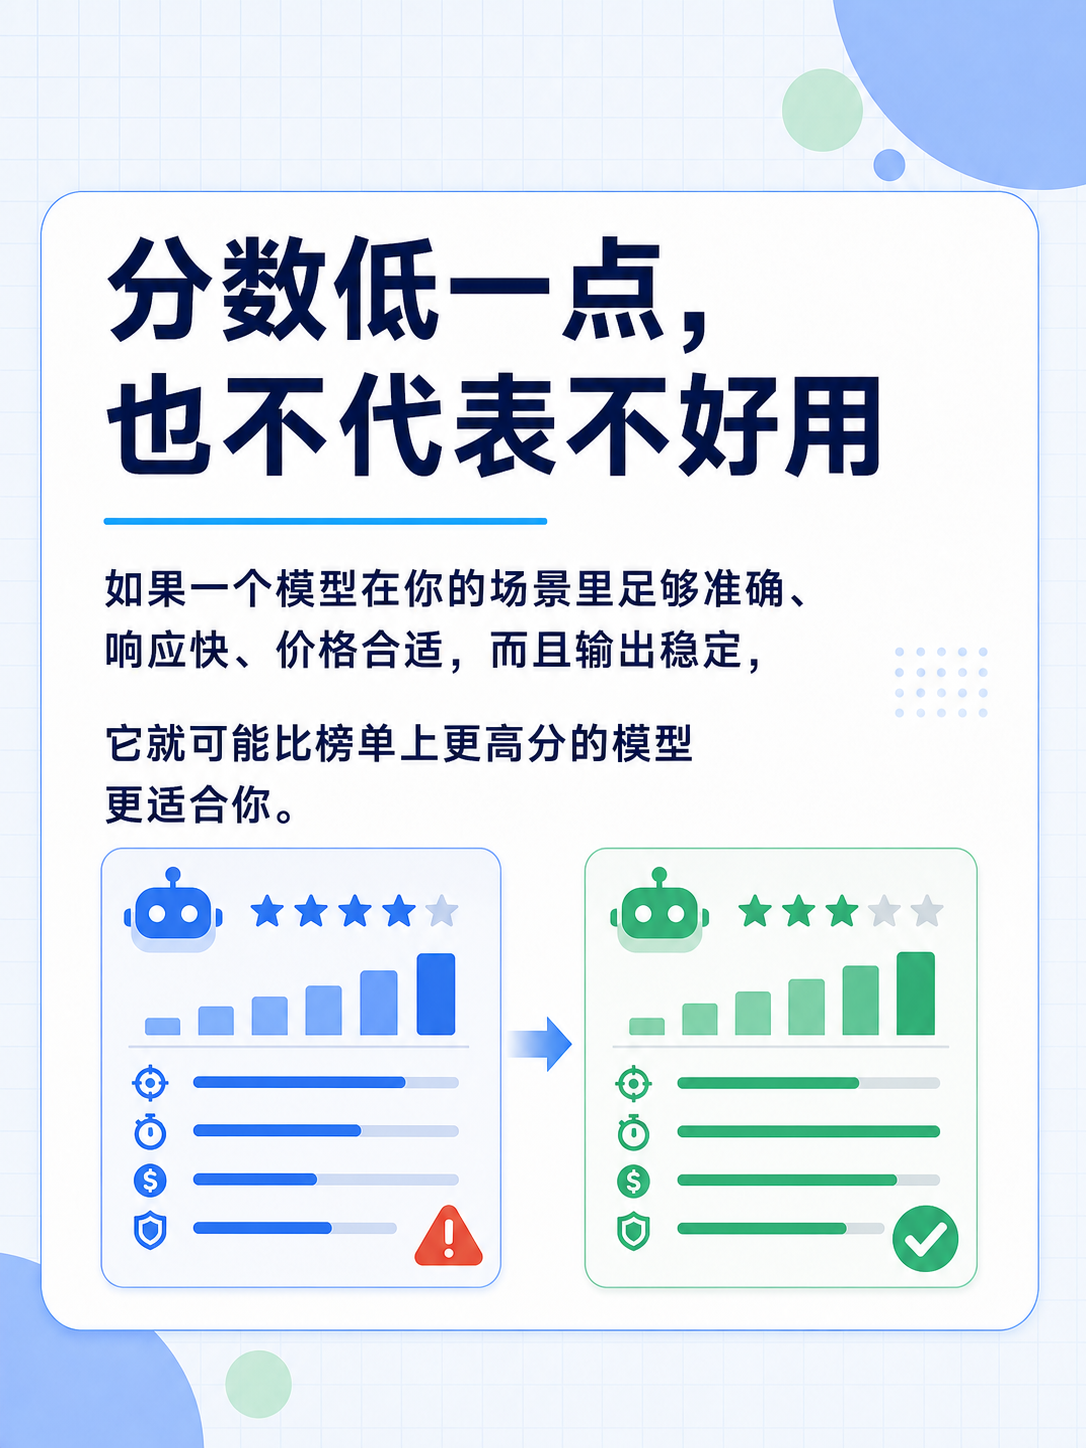
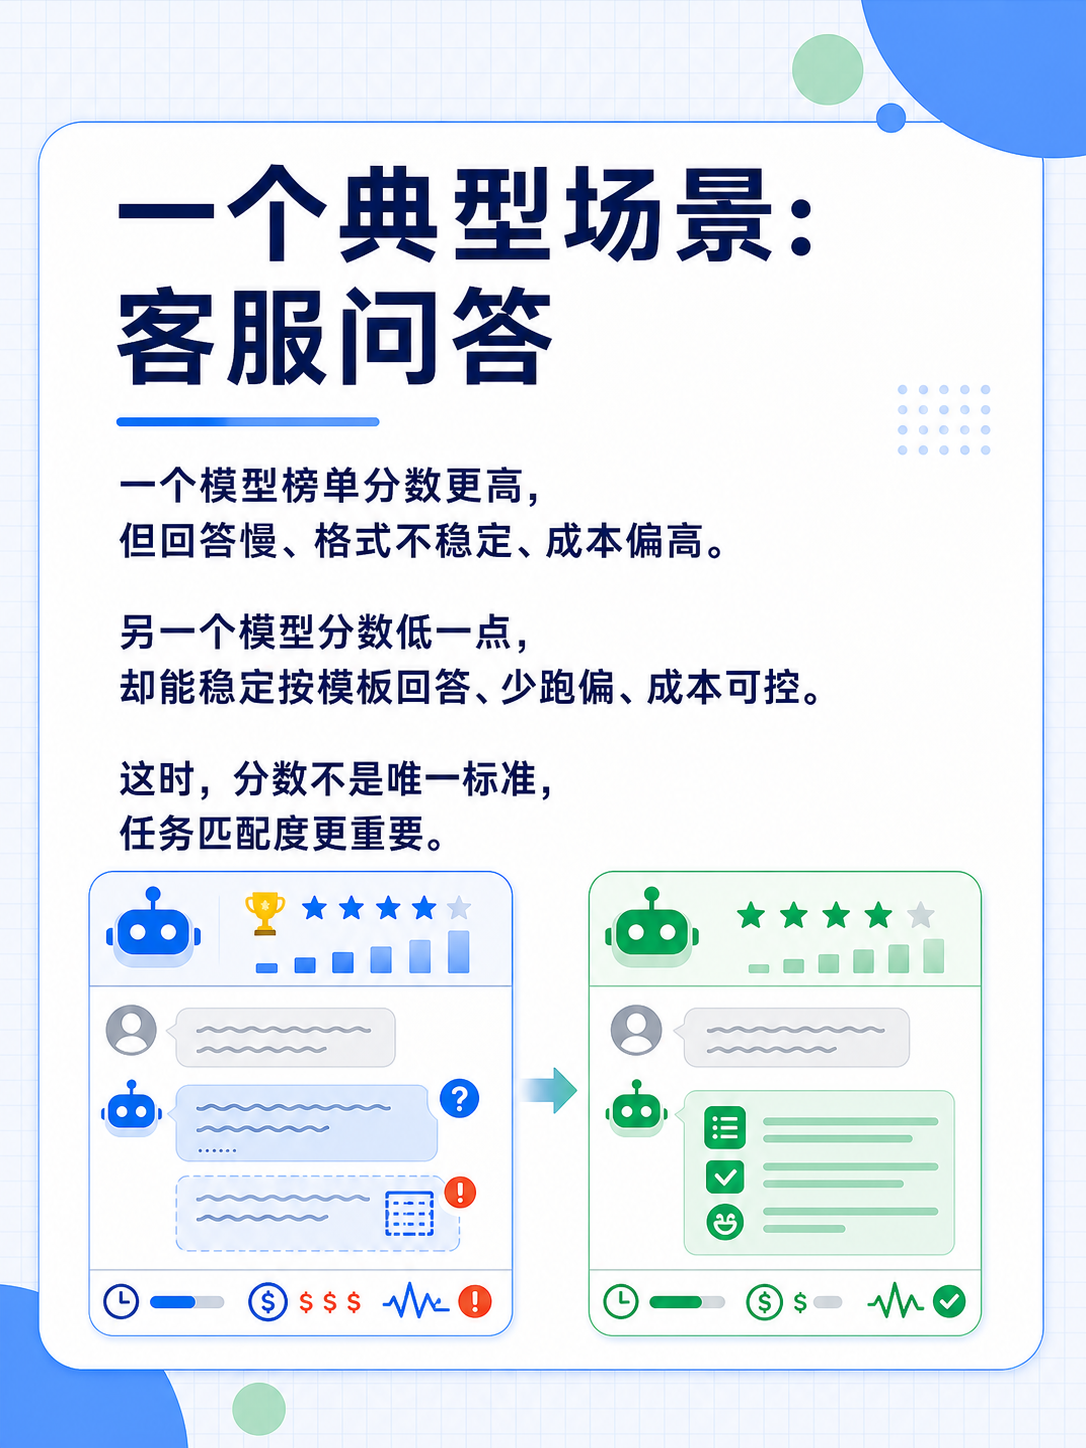
实际例子测试

Changed region(s): [[0.0, 0.0, 1.0, 1.0], [0.8812, 0.4351, 0.9116, 0.4972], [0.8204, 0.4351, 0.8508, 0.4972]]

diff --git a/history/2026-06-16-ai-benchmark-score/图文文案.md b/history/2026-06-16-ai-benchmark-score/图文文案.md
@@ -46,12 +46,14 @@
 
 # 第 5 页
 
-页面标题：分数低一点，也不代表不好用
+页面标题：一个典型场景：客服问答
 
 页面正文：  
-如果一个模型在你的场景里足够准确、响应快、价格合适，而且输出稳定，
+一个模型榜单分数更高，但回答慢、格式不稳定、成本偏高。
 
-它就可能比榜单上更高分的模型更适合你。
+另一个模型分数低一点，却能稳定按模板回答、少跑偏、成本可控。
+
+这时，分数不是唯一标准，任务匹配度更重要。
 
 # 第 6 页
 
@@ -93,6 +95,8 @@
 📋 但真实使用往往更复杂。你的问题可能很长、很乱，带着历史上下文、格式要求、风格偏好，甚至还需要模型调用工具、查资料、连续修改。这些体验不一定能被一个总分完整反映。
 
 ✍️ 所以，高分模型不一定最适合你。它可能很强，但响应慢、成本高、风格不合适，或者在你的具体任务上不够稳定。反过来，分数低一点的模型，如果在你的场景里准确、便宜、快速、稳定，也可能更实用。
+
+🖼️ 例如做客服问答时，模型不仅要答对，还要按固定格式回复、语气稳定、速度可控。榜单分数更高的模型，如果经常改格式或响应慢，就会增加使用成本；分数低一点的模型，如果稳定贴合流程，反而更符合任务要求。
 
 ✅ 更稳妥的做法是：先用榜单做初筛，再用自己的真实任务做小测试。看它是否答得准、是否稳定、是否容易控制格式，速度和成本能不能接受。
 

diff --git a/history/2026-06-16-ai-benchmark-score/选题大纲.md b/history/2026-06-16-ai-benchmark-score/选题大纲.md
@@ -35,6 +35,8 @@
 
 更稳妥的判断方式是：用榜单做初筛，再用自己的真实任务样例做小规模测试。
 
+本篇会加入一个客服问答的典型场景例子，用来说明：真实任务除了“答对”之外，还可能要求固定格式、稳定语气、响应速度和成本可控。该例子不对应具体模型、具体企业或真实榜单排名，只用于解释任务匹配度。
+
 ## 推荐标题方向
 
 1. AI 跑分高，就一定更好用吗？
@@ -58,7 +60,7 @@
 3. 第 2 页：`Benchmark` 本质上是一场标准化考试。
 4. 第 3 页：真实任务往往更复杂。
 5. 第 4 页：高分模型也可能“不顺手”。
-6. 第 5 页：分数低一点，也不代表不好用。
+6. 第 5 页：一个典型场景：客服问答。
 7. 第 6 页：看榜单，更要看测试方式。
 8. 第 7 页：选模型，要回到自己的任务。
 9. 第 8 页：更实用的判断标准。
@@ -70,3 +72,4 @@
 - 不贬低 `Benchmark` 的价值；它适合做初筛和能力对比。
 - 不把评测分数直接等同于用户体验，因为真实使用还涉及任务类型、上下文、速度、成本、稳定性和可控性。
 - 不把“标准化考试”类比当作严格定义；它用于帮助非技术读者理解固定题目、固定规则、固定评分的评测逻辑。
+- 客服问答例子是典型场景，不写成真实行业事实，也不用于比较具体模型。

diff --git a/history/2026-06-16-ai-benchmark-score/资料核查.md b/history/2026-06-16-ai-benchmark-score/资料核查.md
@@ -6,6 +6,7 @@
 - 评测分数适合帮助用户初步比较模型能力，但不能直接等同于真实使用体验。
 - 真实任务还会受到任务类型、上下文长度、输出格式、响应速度、成本、稳定性、工具调用和用户偏好等因素影响。
 - 因此，本篇建议“先看评测做初筛，再用自己的真实任务样例测试”，这与通用模型评测实践一致。
+- 文案中的“客服问答”属于典型场景例子，用来说明任务匹配度，不对应具体模型、企业、榜单或真实业务案例。
 
 ## 可追溯资料来源
 
@@ -31,6 +32,7 @@
 - 不比较具体模型名称、价格、上下文长度或 API 能力。
 - 不使用第三方榜单作为结论依据。
 - 不把某个单一评测分数作为“模型好不好用”的唯一判断标准。
+- 不把“客服问答”例子写成真实行业事实，也不据此得出某个具体模型优劣结论。
 
 ## 待核查边界
 